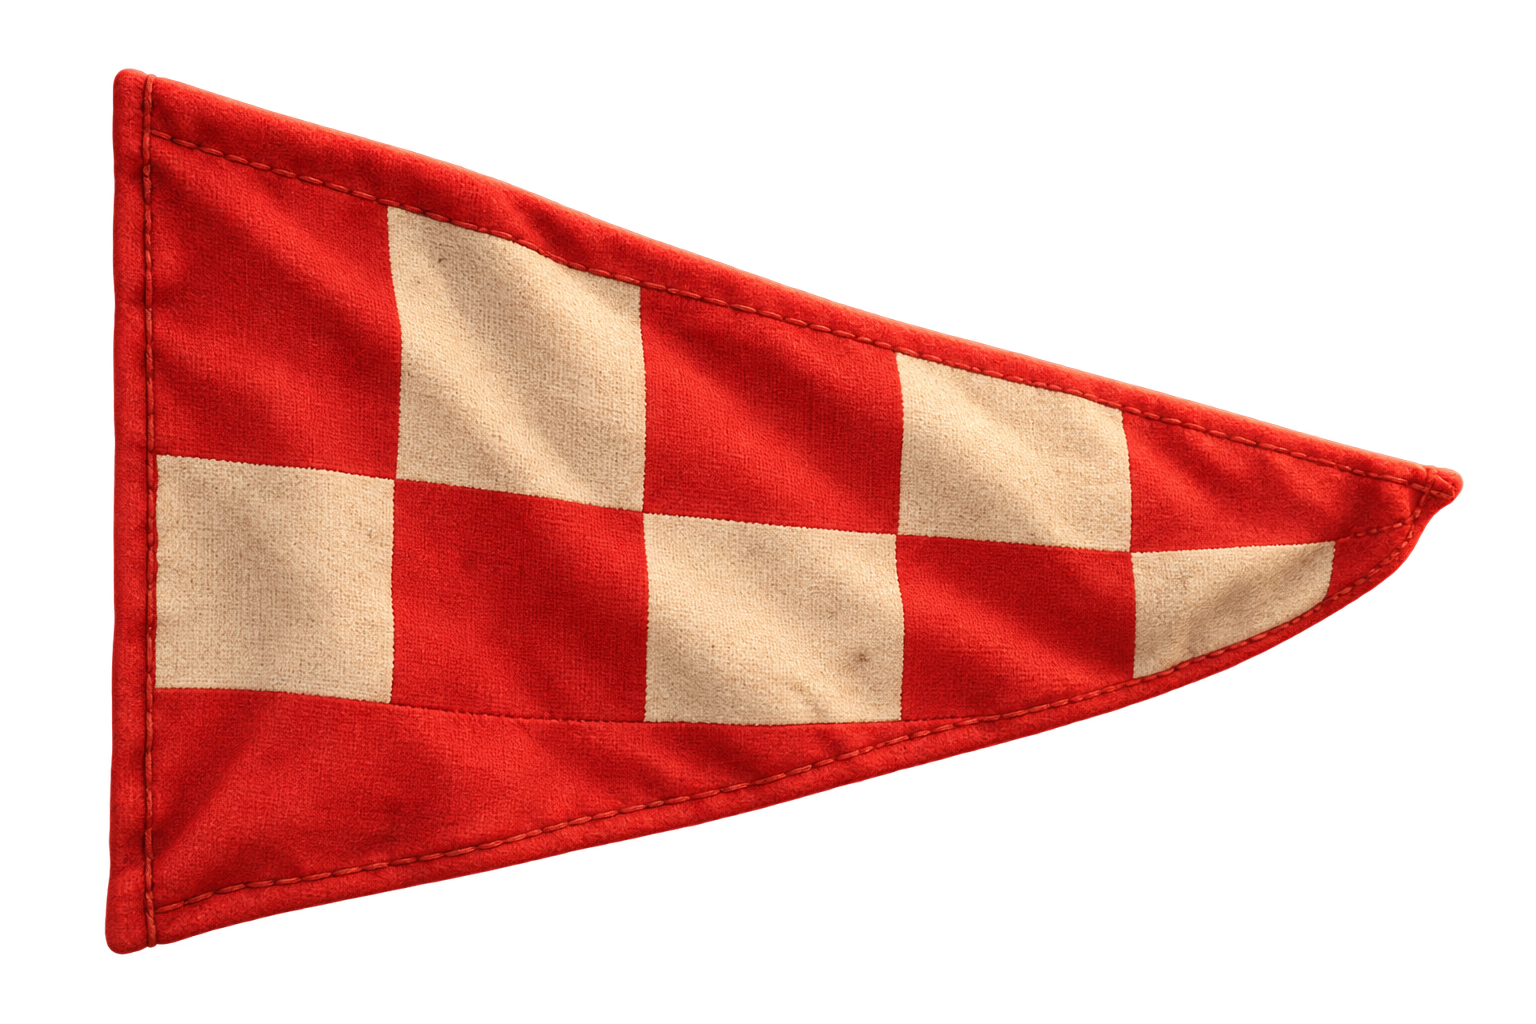
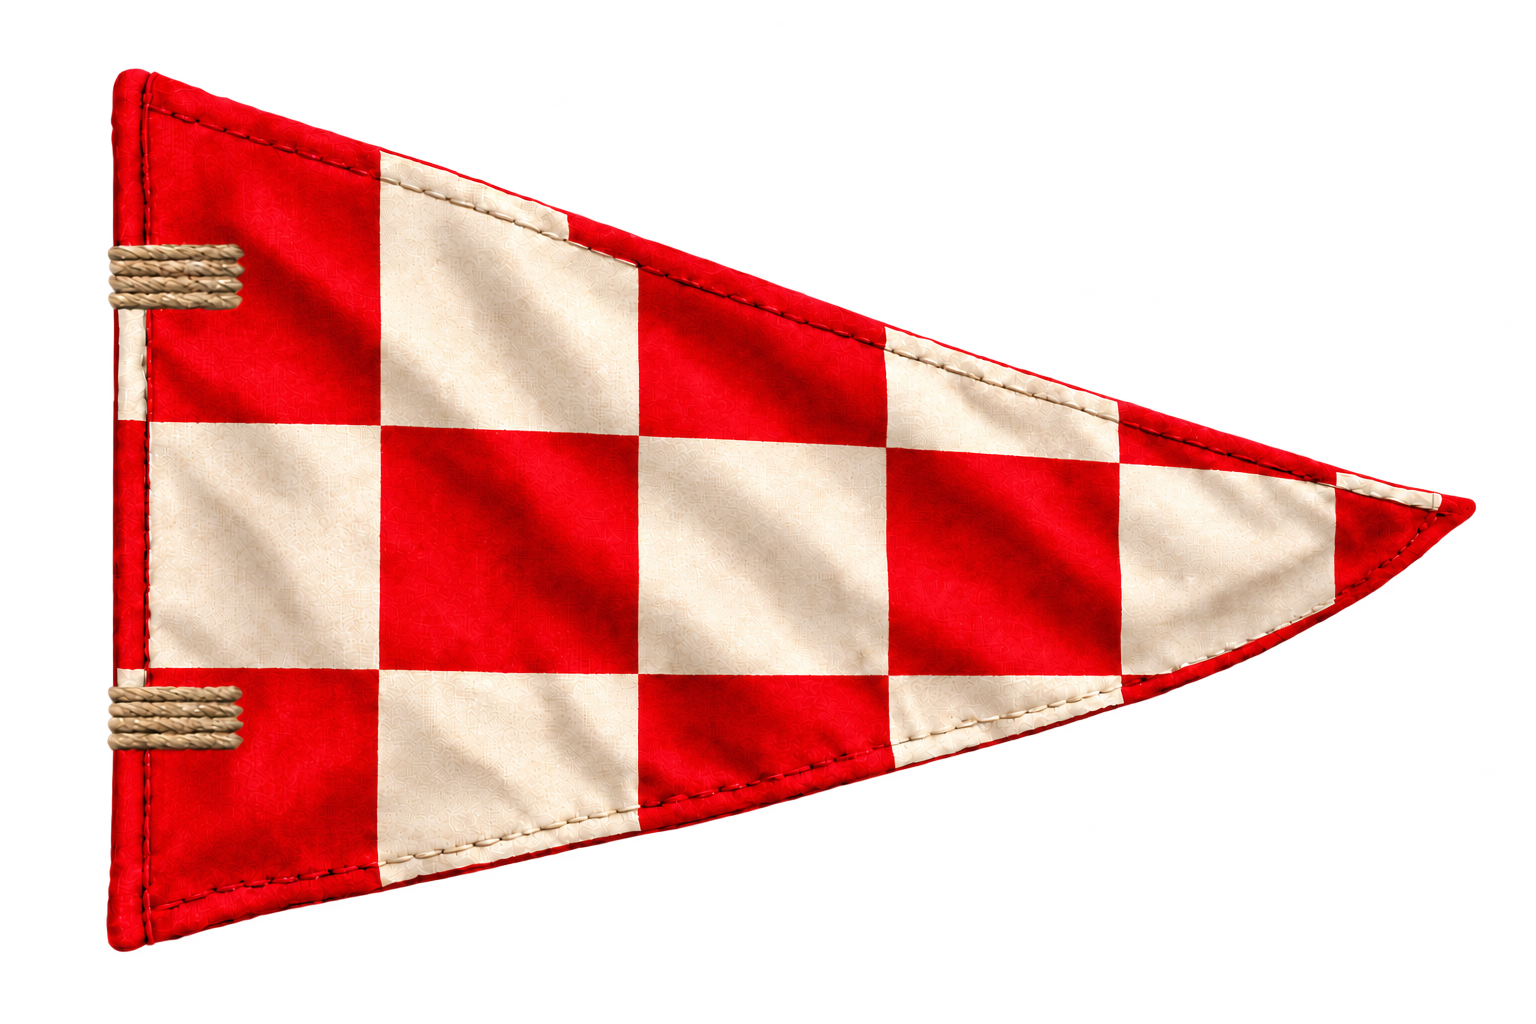
flag patch fixes

diff --git a/Assets/_Project/03_UI/MainMenu/MenuCharacterMotion.cs b/Assets/_Project/03_UI/MainMenu/MenuCharacterMotion.cs
@@ -19,8 +19,8 @@ internal sealed class MenuCharacterMotion
         Vector2 offset = new Vector2((width - 1672 * scale) / 2, (height - 941 * scale) / 2);
         if (flag != null)
         {
-            Patch(context, flag, new Rect(1501, 130, 137, 114), new Rect(106f / 1536, 69f / 1024, 1357f / 1536, 885f / 1024), offset, scale, settings.flagEnabled ? time : 0, true, 1);
-            DrawFlagTies(context.painter2D, offset, scale);
+            Patch(context, flag, new Rect(1493, 130, 137, 114), new Rect(106f / 1536, 69f / 1024, 1357f / 1536, 885f / 1024), offset, scale, settings.flagEnabled ? time : 0, true, 1);
+
         }
         float close = BlinkAmount(time, 0);
         if (blink != null && settings.blinkEnabled && close > 0)
@@ -42,32 +42,6 @@ internal sealed class MenuCharacterMotion
     private void EyePatch(MeshGenerationContext context, Rect eye, Vector2 offset, float scale, float close)
     {
         Patch(context, secondBlink, eye, new Rect(eye.x / 1672, eye.y / 941, eye.width / 1672, eye.height / 941), offset, scale, 0, false, close);
-    }
-
-    private static void DrawFlagTies(Painter2D painter, Vector2 offset, float scale)
-    {
-        // Two twine loops wrap the surviving pole and pass through the cloth's hoist edge.
-        for (int tie = 0; tie < 2; tie++)
-        {
-            float y = tie == 0 ? 137 : 236;
-            for (int pass = 0; pass < 2; pass++)
-            {
-                painter.strokeColor = pass == 0 ? new Color(0.28f, 0.16f, 0.07f) : new Color(0.82f, 0.66f, 0.38f);
-                painter.lineWidth = (pass == 0 ? 3.4f : 1.8f) * scale;
-                painter.BeginPath();
-                painter.MoveTo(offset + new Vector2(1504, y) * scale);
-                painter.BezierCurveTo(offset + new Vector2(1494, y - 6) * scale,
-                    offset + new Vector2(1475, y - 5) * scale, offset + new Vector2(1480, y + 1) * scale);
-                painter.BezierCurveTo(offset + new Vector2(1484, y + 6) * scale,
-                    offset + new Vector2(1496, y + 4) * scale, offset + new Vector2(1504, y) * scale);
-                painter.Stroke();
-                painter.BeginPath();
-                painter.MoveTo(offset + new Vector2(1499, y - 2) * scale);
-                painter.LineTo(offset + new Vector2(1504, y + 4) * scale);
-                painter.LineTo(offset + new Vector2(1500, y + 8) * scale);
-                painter.Stroke();
-            }
-        }
     }
 
     private float BlinkAmount(float time, int index)
